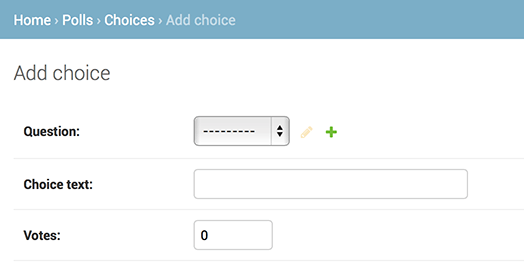
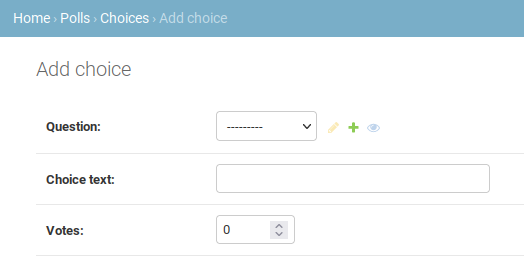
Fixed #33267 -- Added link to related item to related widget wrapper in admin.

diff --git a/django/contrib/admin/templates/admin/widgets/related_widget_wrapper.html b/django/contrib/admin/templates/admin/widgets/related_widget_wrapper.html
@@ -7,12 +7,14 @@
         {% if can_change_related %}
         <a class="related-widget-wrapper-link change-related" id="change_id_{{ name }}"
             data-href-template="{{ change_related_template_url }}?{{ url_params }}"
+            data-popup="yes"
             title="{% blocktranslate %}Change selected {{ model }}{% endblocktranslate %}">
             <img src="{% static 'admin/img/icon-changelink.svg' %}" alt="{% translate 'Change' %}">
         </a>
         {% endif %}
         {% if can_add_related %}
         <a class="related-widget-wrapper-link add-related" id="add_id_{{ name }}"
+            data-popup="yes"
             href="{{ add_related_url }}?{{ url_params }}"
             title="{% blocktranslate %}Add another {{ model }}{% endblocktranslate %}">
             <img src="{% static 'admin/img/icon-addlink.svg' %}" alt="{% translate 'Add' %}">
@@ -21,9 +23,17 @@
         {% if can_delete_related %}
         <a class="related-widget-wrapper-link delete-related" id="delete_id_{{ name }}"
             data-href-template="{{ delete_related_template_url }}?{{ url_params }}"
+            data-popup="yes"
             title="{% blocktranslate %}Delete selected {{ model }}{% endblocktranslate %}">
             <img src="{% static 'admin/img/icon-deletelink.svg' %}" alt="{% translate 'Delete' %}">
         </a>
+        {% endif %}
+        {% if can_view_related %}
+          <a class="related-widget-wrapper-link view-related" id="view_id_{{ name }}"
+             data-href-template="{{ change_related_template_url }}?{{ view_related_url_params }}"
+             title="{% blocktranslate %}View selected {{ model }}{% endblocktranslate %}">
+            <img src="{% static 'admin/img/icon-viewlink.svg' %}" alt="{% translate 'View' %}">
+          </a>
         {% endif %}
         {% endif %}
         {% endspaceless %}

diff --git a/django/contrib/admin/static/admin/js/admin/RelatedObjectLookups.js b/django/contrib/admin/static/admin/js/admin/RelatedObjectLookups.js
@@ -125,7 +125,7 @@
                 this.textContent = newRepr;
                 this.value = newId;
             }
-        });
+        }).trigger('change');
         selects.next().find('.select2-selection__rendered').each(function() {
             // The element can have a clear button as a child.
             // Use the lastChild to modify only the displayed value.
@@ -178,7 +178,7 @@
             event.preventDefault();
             opener.dismissRelatedLookupPopup(window, $(this).data("popup-opener"));
         });
-        $('body').on('click', '.related-widget-wrapper-link', function(e) {
+        $('body').on('click', '.related-widget-wrapper-link[data-popup="yes"]', function(e) {
             e.preventDefault();
             if (this.href) {
                 const event = $.Event('django:show-related', {href: this.href});

diff --git a/tests/admin_widgets/tests.py b/tests/admin_widgets/tests.py
@@ -1675,6 +1675,7 @@ class AdminRawIdWidgetSeleniumTests(AdminWidgetSeleniumTestCase):
 class RelatedFieldWidgetSeleniumTests(AdminWidgetSeleniumTestCase):
     def test_ForeignKey_using_to_field(self):
         from selenium.webdriver.common.by import By
+        from selenium.webdriver.support.ui import Select
 
         self.admin_login(username="super", password="secret", login_url="/")
         self.selenium.get(
@@ -1698,6 +1699,12 @@ class RelatedFieldWidgetSeleniumTests(AdminWidgetSeleniumTestCase):
         # The field now contains the new user
         self.selenium.find_element(By.CSS_SELECTOR, "#id_user option[value=newuser]")
 
+        self.selenium.find_element(By.ID, "view_id_user").click()
+        self.wait_for_value("#id_username", "newuser")
+        self.selenium.back()
+
+        select = Select(self.selenium.find_element(By.ID, "id_user"))
+        select.select_by_value("newuser")
         # Click the Change User button to change it
         self.selenium.find_element(By.ID, "change_id_user").click()
         self.wait_for_and_switch_to_popup()
@@ -1714,6 +1721,12 @@ class RelatedFieldWidgetSeleniumTests(AdminWidgetSeleniumTestCase):
             By.CSS_SELECTOR, "#id_user option[value=changednewuser]"
         )
 
+        self.selenium.find_element(By.ID, "view_id_user").click()
+        self.wait_for_value("#id_username", "changednewuser")
+        self.selenium.back()
+
+        select = Select(self.selenium.find_element(By.ID, "id_user"))
+        select.select_by_value("changednewuser")
         # Go ahead and submit the form to make sure it works
         self.selenium.find_element(By.CSS_SELECTOR, save_button_css_selector).click()
         self.wait_for_text(

diff --git a/django/contrib/admin/widgets.py b/django/contrib/admin/widgets.py
@@ -300,10 +300,11 @@ class RelatedFieldWidgetWrapper(forms.Widget):
         rel_opts = self.rel.model._meta
         info = (rel_opts.app_label, rel_opts.model_name)
         self.widget.choices = self.choices
+        related_field_name = self.rel.get_related_field().name
         url_params = "&".join(
             "%s=%s" % param
             for param in [
-                (TO_FIELD_VAR, self.rel.get_related_field().name),
+                (TO_FIELD_VAR, related_field_name),
                 (IS_POPUP_VAR, 1),
             ]
         )
@@ -325,6 +326,7 @@ class RelatedFieldWidgetWrapper(forms.Widget):
                 info, "delete", "__fk__"
             )
         if self.can_view_related or self.can_change_related:
+            context["view_related_url_params"] = f"{TO_FIELD_VAR}={related_field_name}"
             context["change_related_template_url"] = self.get_related_url(
                 info, "change", "__fk__"
             )
